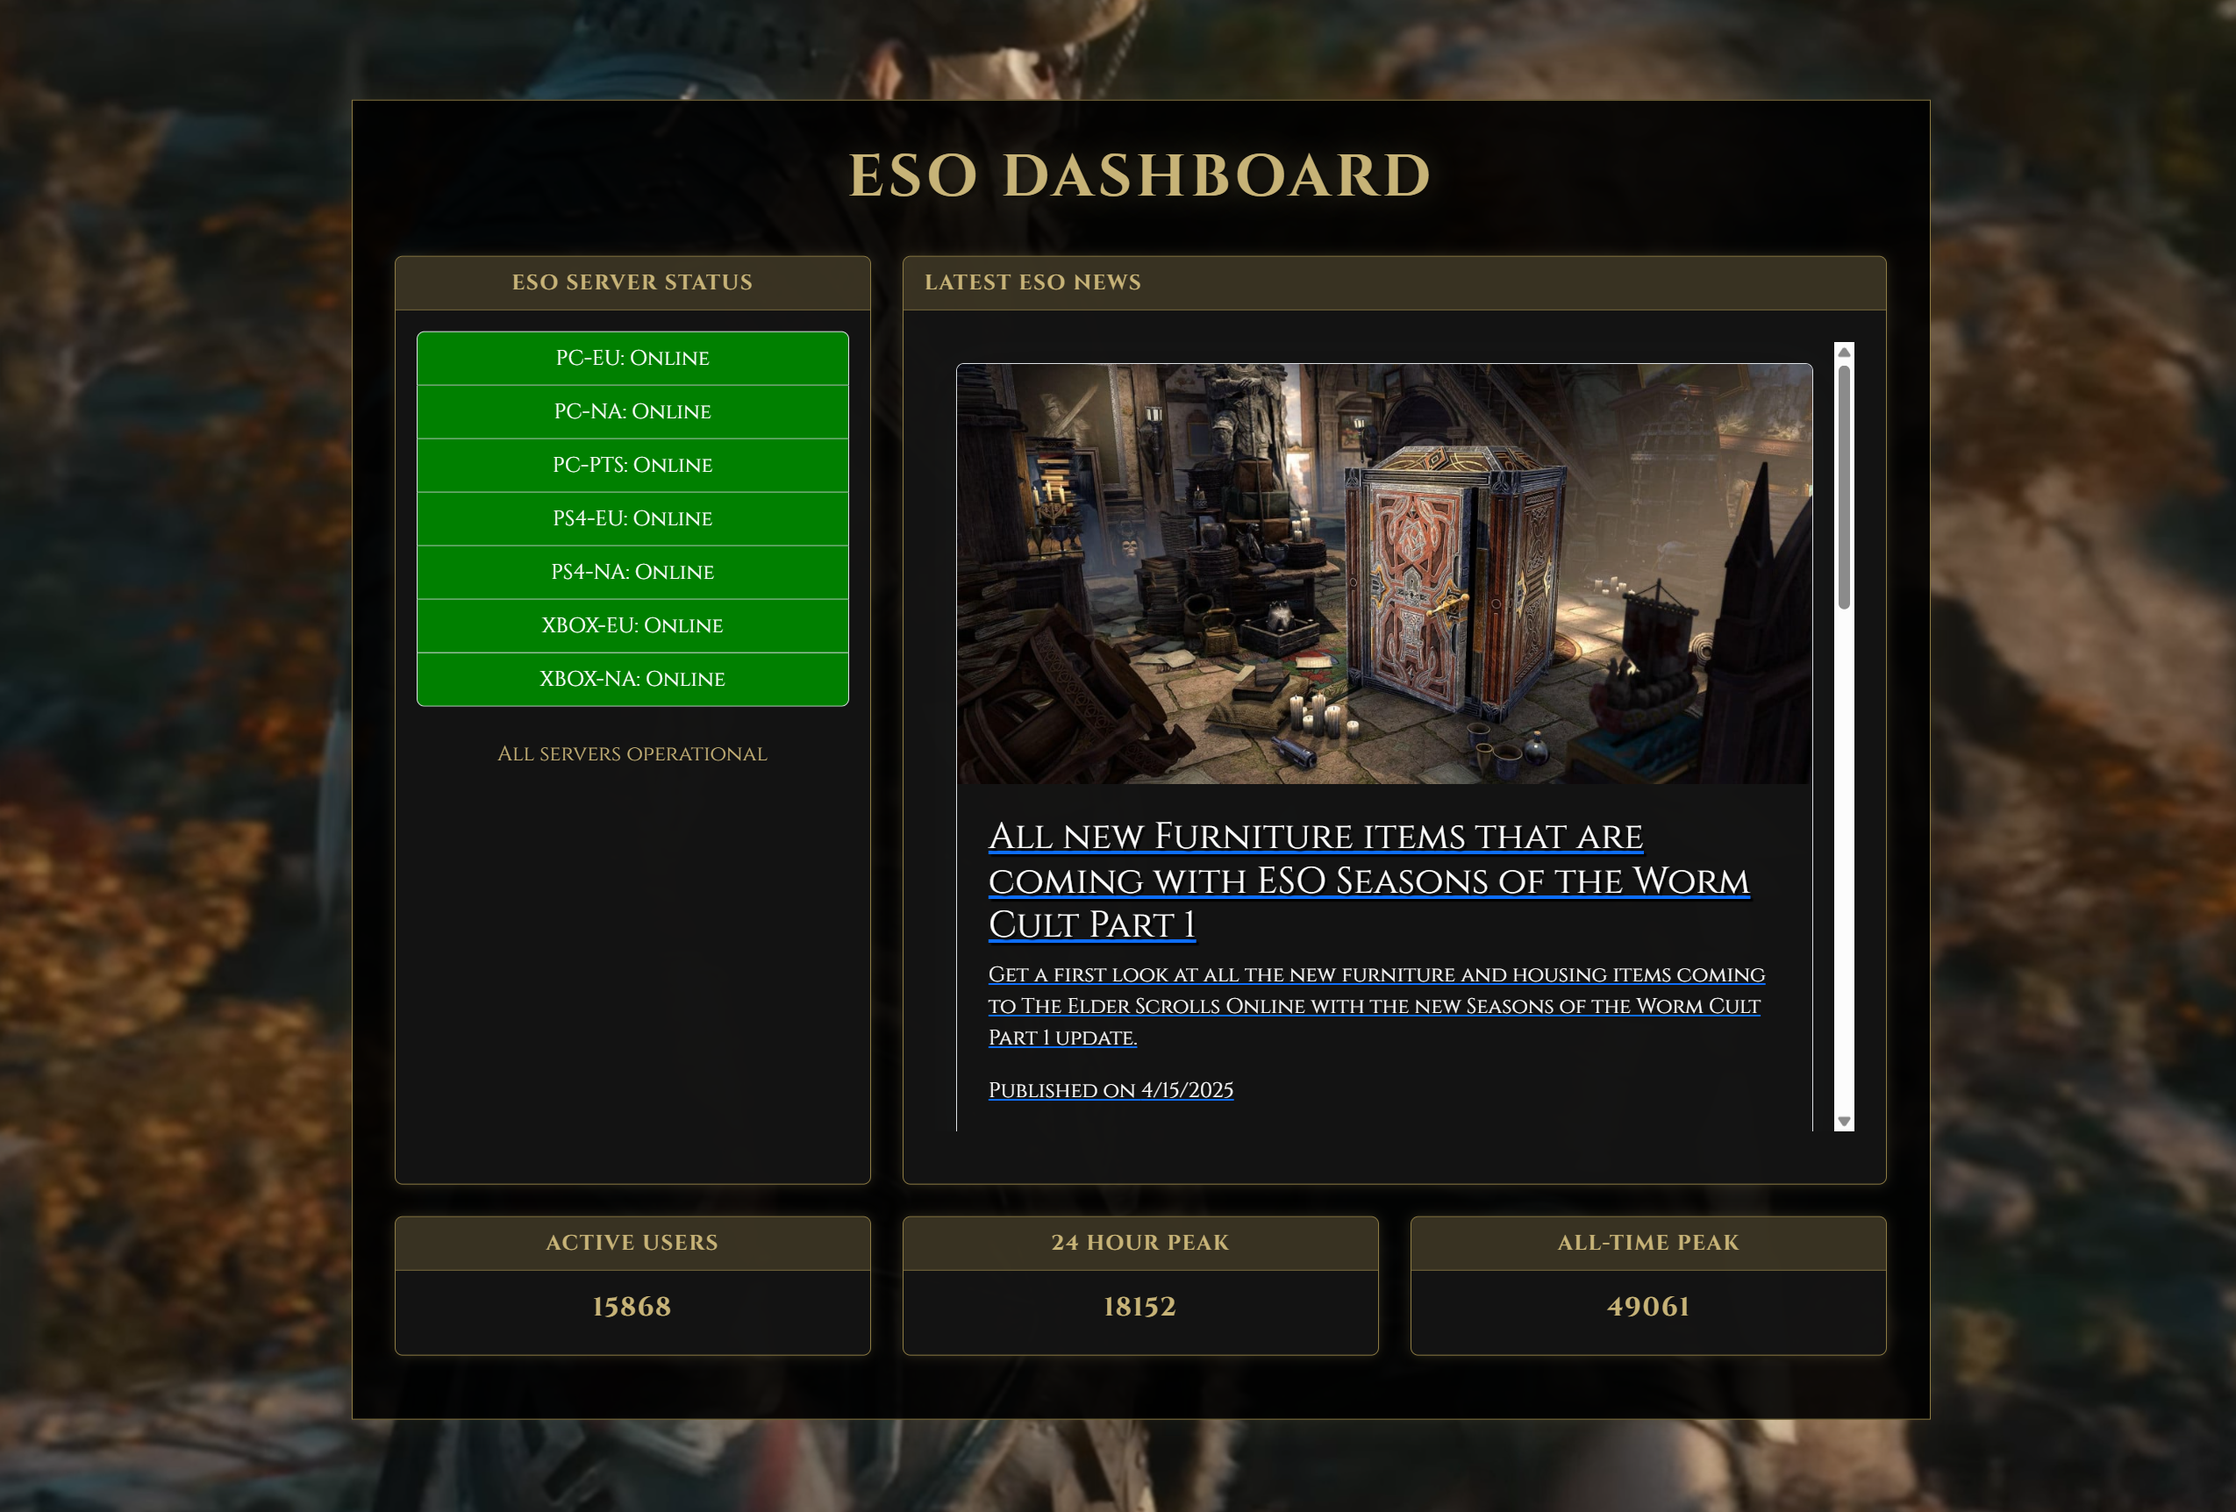
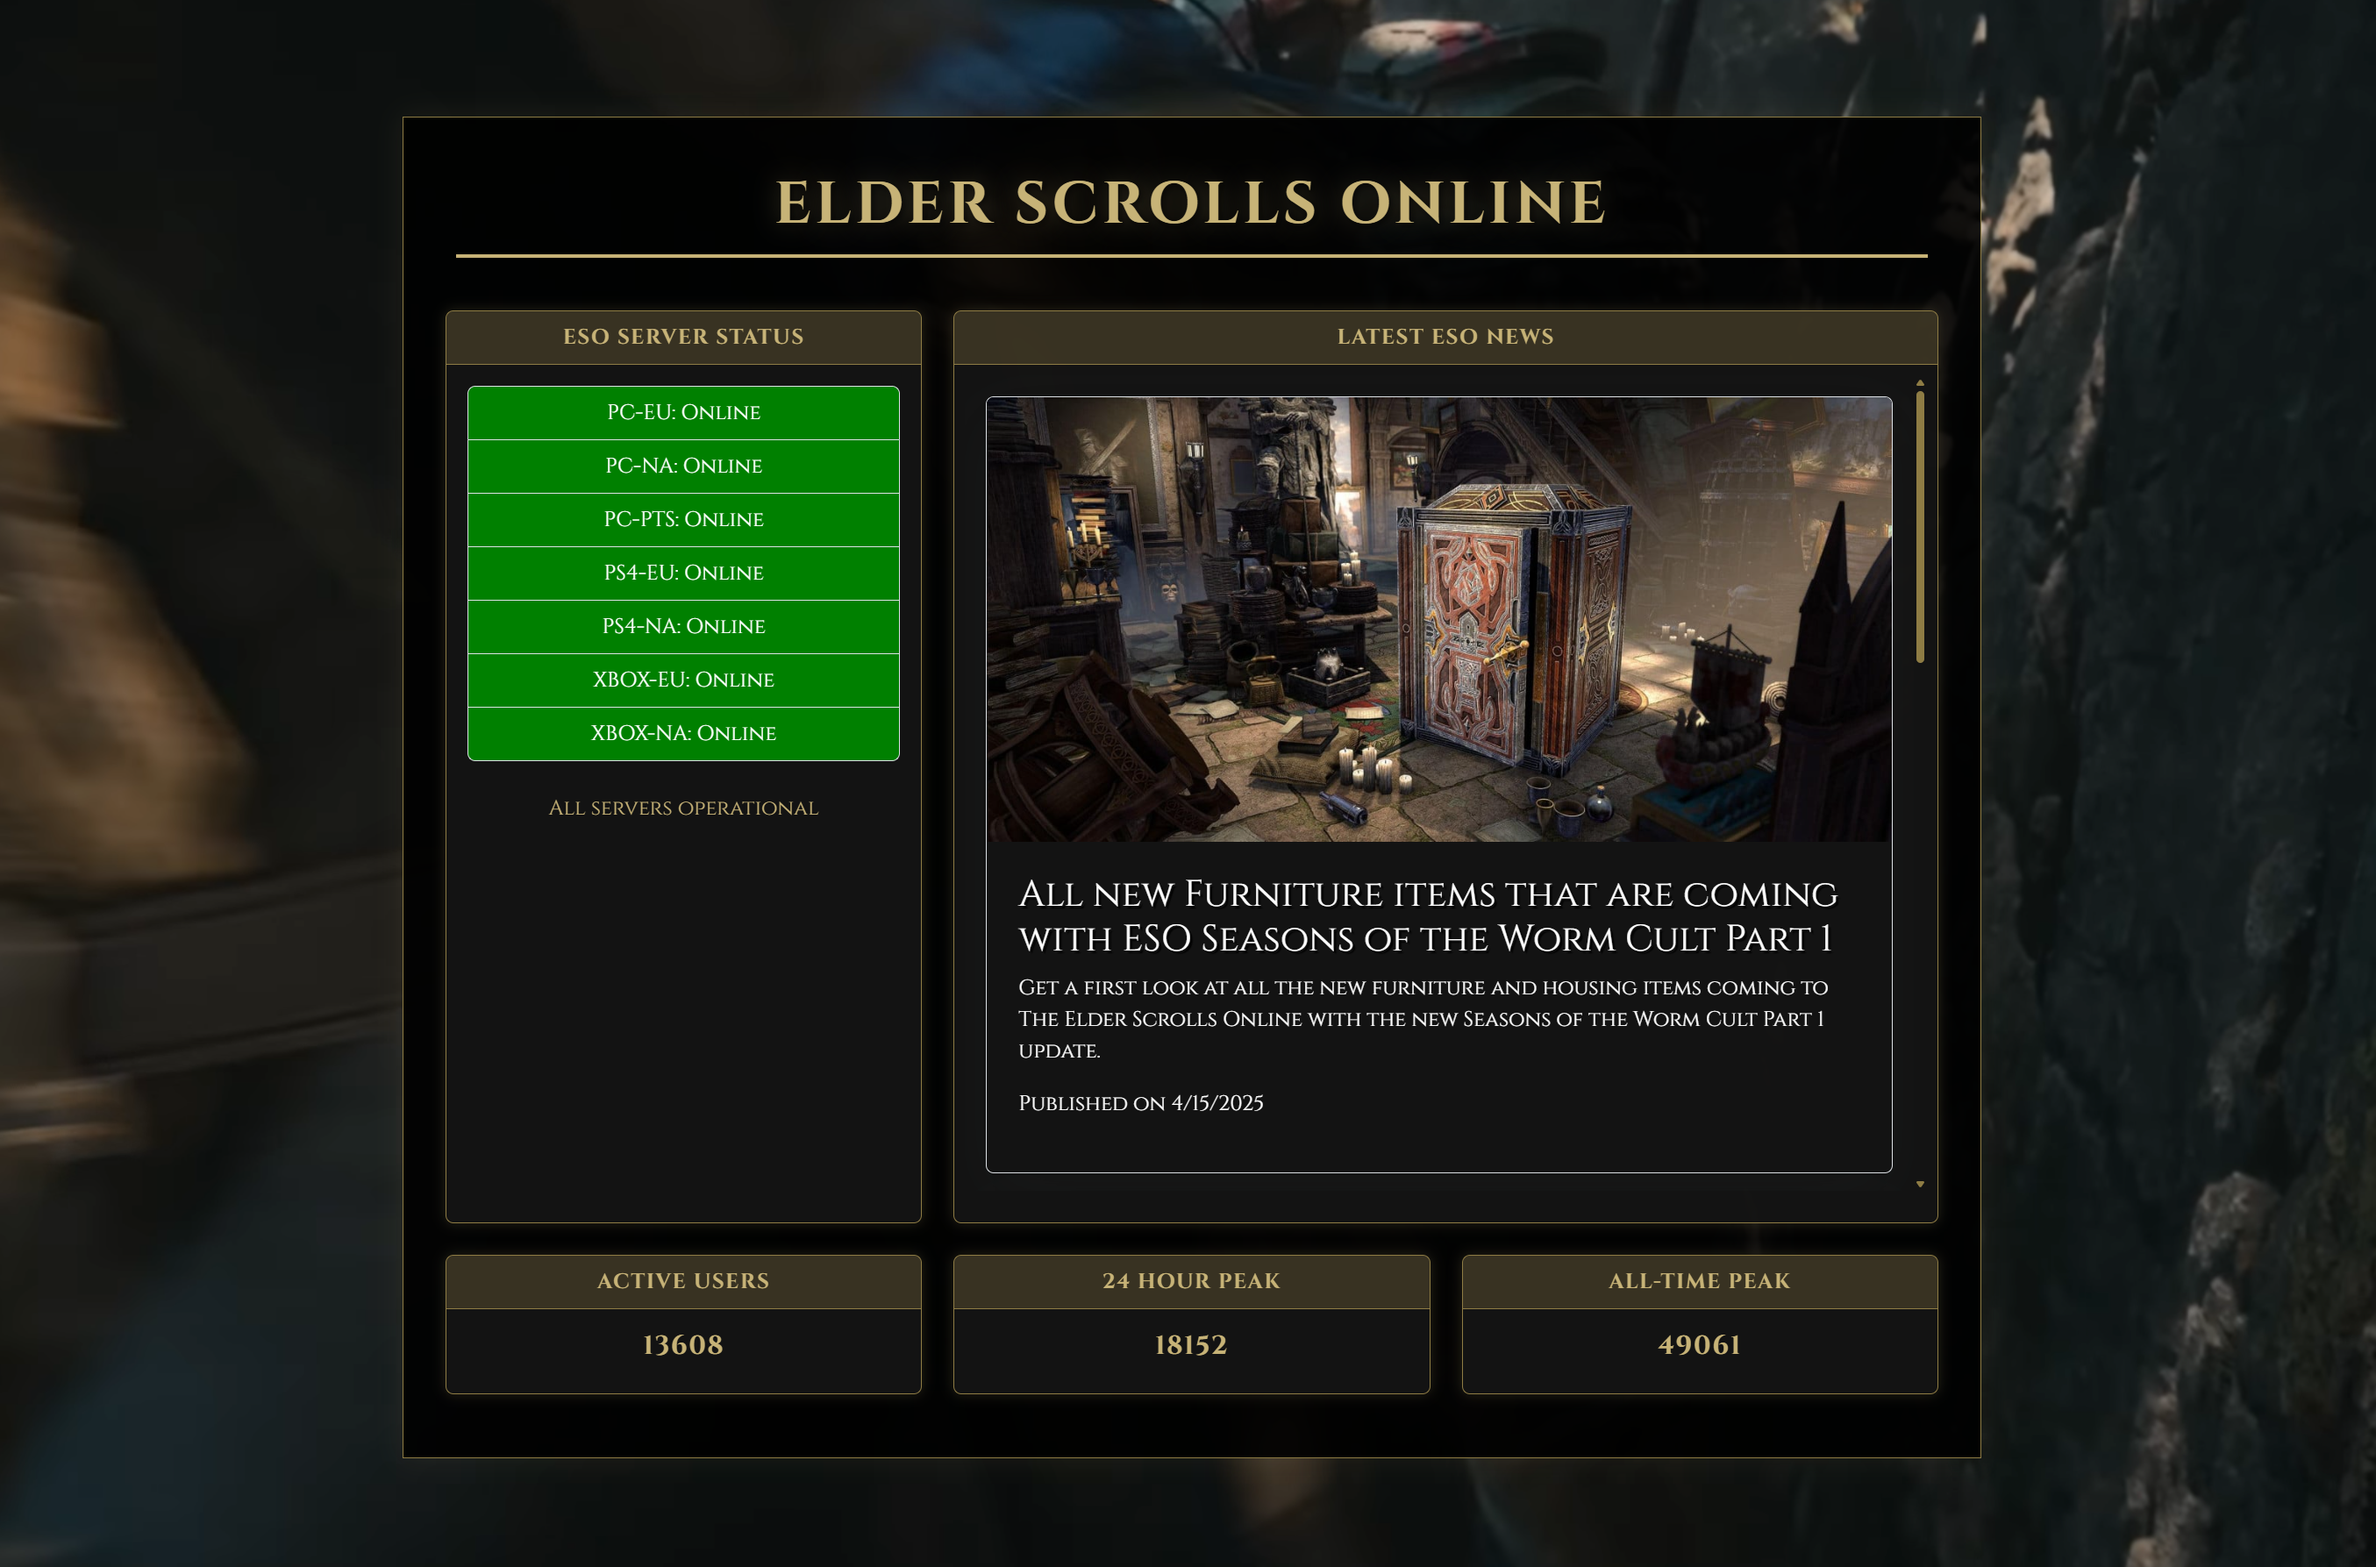
feat: Add new titel and rss feed styles

diff --git a/templates/dashboard.html b/templates/dashboard.html
@@ -4,7 +4,7 @@
 <head>
     <meta charset="UTF-8">
     <meta name="viewport" content="width=device-width, initial-scale=1.0">
-    <title>System Dashboard</title>
+    <title>ESO Dashboard</title>
     <link href="https://cdn.jsdelivr.net/npm/bootstrap@5.3.0-alpha1/dist/css/bootstrap.min.css" rel="stylesheet">
     <script src="https://cdn.jsdelivr.net/npm/chart.js"></script>
     <style>
@@ -12,29 +12,29 @@
         @import url('https://fonts.googleapis.com/css2?family=Cinzel:wght@400;700&display=swap');
 
         body {
-            background-color: #000;
-            color: #c7b377;
-            font-family: 'Cinzel', serif;
-            /* Changed to Cinzel as it's closer to ESO's style */
-            background-image: url('https://images.ctfassets.net/rporu91m20dc/4gNjttrkh46UWUQCkkOAsm/eeff79c08bca3d6633dd73f37b03f413/ESO_Necrom_Key_Art_Carousel_Desktop.jpg');
-            background-size: cover;
-            background-attachment: fixed;
-            background-position: center;
-        }
+        display: flex;
+        justify-content: center;
+        align-items: center;
+        min-height: 100vh;
+        margin: 0;
+        background-color: #000;
+        color: #c7b377;
+        font-family: 'Cinzel', serif;
+        background-image: url('https://images.ctfassets.net/rporu91m20dc/4gNjttrkh46UWUQCkkOAsm/eeff79c08bca3d6633dd73f37b03f413/ESO_Necrom_Key_Art_Carousel_Desktop.jpg');
+        background-size: cover;
+        background-attachment: fixed;
+        background-position: center;
+    }
 
-        .container {
-            position: fixed;
-            top: 50%;
-            left: 50%;
-            transform: translate(-50%, -50%);
-            width: 90%;
-            max-width: 1200px;
-            margin: 0;
-            padding: 2rem;
-            background-color: rgba(0, 0, 0, 0.9);
-            border: 1px solid #8e7c44;
-            box-shadow: 0 0 20px rgba(199, 179, 119, 0.1);
-        }
+    .container {
+        margin: 2rem; /* Remove auto margin */
+        width: 90%;
+        max-width: 1200px;
+        padding: 2rem;
+        background-color: rgba(0, 0, 0, 0.9);
+        border: 1px solid #8e7c44;
+        box-shadow: 0 0 20px rgba(199, 179, 119, 0.1);
+    }
 
         /* Mobile responsiveness */
         @media (max-width: 768px) {
@@ -110,16 +110,27 @@
         }
 
         h1 {
-            color: #c7b377;
-            text-transform: uppercase;
-            letter-spacing: 3px;
-            font-size: 2.8rem;
-            text-align: center;
-            margin-bottom: 2rem;
-            text-shadow: 2px 2px 4px rgba(0, 0, 0, 0.5),
-                0 0 20px rgba(199, 179, 119, 0.3);
-            font-family: 'Cinzel', serif;
-            font-weight: 700;
+        color: #c7b377;
+        text-transform: uppercase;
+        letter-spacing: 3px;
+        font-size: 2.8rem;
+        text-align: center;
+        margin-bottom: 2rem;
+        text-shadow: 2px 2px 4px rgba(0, 0, 0, 0.5),
+            0 0 20px rgba(199, 179, 119, 0.3);
+        font-family: 'Cinzel', serif;
+        font-weight: 700;
+        position: relative; /* Add this for positioning the underline */
+        }
+
+        h1::after {
+            content: '';
+            display: block;
+            width: 100%; 
+            height: 3px;
+            background-color: #c7b377; /* Match the text color */
+            margin: 0 auto;
+            margin-top: 10px; /* Adjust spacing below the text */
         }
 
         .card-title {
@@ -140,6 +151,21 @@
             transition: all 0.3s ease;
             box-shadow: 0 0 15px rgba(199, 179, 119, 0.3);
         }
+
+        /* Custom scrollbar styling */
+        .card-body::-webkit-scrollbar {
+            width: 8px;
+        }
+
+        .card-body::-webkit-scrollbar-track {
+            background: rgba(20, 20, 20, 0.95);
+        }
+
+        .card-body::-webkit-scrollbar-thumb {
+            background-color: #8e7c44;
+            border-radius: 4px;
+            border: 1px solid rgba(20, 20, 20, 0.95);
+        }
     </style>
 </head>
 
@@ -148,15 +174,15 @@
         <source src={{ url_for('static', filename="background-video.mp4" ) }} type="video/mp4">
     </video>
     <div class="container mt-6">
-        <h1 class="text-center">ESO Dashboard</h1>
+        <h1 class="text-center p-2">Elder Scrolls Online</h1>
         <div class="row mt-4 d-flex align-items-stretch">
             <!-- System Status Card -->
             <div class="col-md-4">
-                <div class="card text-center d-flex flex-column h-100">
-                    <div class="card-header bg-primary text-white">
+                <div class="card d-flex flex-column h-100">
+                    <div class="card-header text-center bg-primary text-white">
                         ESO Server Status
                     </div>
-                    <div class="card-body flex-grow-1">
+                    <div class="card-body flex-grow-1 text-center">
                         <ul class="list-group" id="serverStatusList">
                             <li class="list-group-item text-white bg-dark">Loading...</li>
                         </ul>
@@ -168,16 +194,17 @@
             <!-- RSS Feed Card -->
             <div class="col-md-8">
                 <div class="card d-flex flex-column h-100">
-                    <div class="card-header bg-success text-white">
+                    <div class="card-header text-center bg-success text-white">
                         Latest ESO News
                     </div>
-                    <div class="card-body flex-grow-1 m-4" style="max-height: 600px; overflow-y: auto;">
+                    <div class="card-body flex-grow-1 m-2" style="max-height: 620px; overflow-y: auto; scrollbar-width: thin; scrollbar-color: #8e7c44 rgba(20, 20, 20, 0.95);">
                         <div id="rssFeed" class="d-flex flex-column gap-3">
                             <div class="text-white bg-dark">Loading...</div>
                         </div>
                     </div>
                 </div>
             </div>
+
         </div>
         <!-- Additional Stats -->
         <div class="row mt-4">
@@ -284,38 +311,39 @@
 
         function fetchRSSFeed() {
             fetch('https://api.rss2json.com/v1/api.json?rss_url=https://eso-hub.com/en/news/feed.rss')
-                .then(response => response.json())
-                .then(data => {
-                    const rssFeed = document.getElementById('rssFeed');
-                    rssFeed.innerHTML = ''; // Clear the list
-                    data.items.slice(0, 3).forEach(item => {
-                        const feedItem = document.createElement('a');
-                        feedItem.href = item.link;
-                        feedItem.target = '_blank';
-                        feedItem.className = 'relative block bg-gray-900 border border-gray-900 shadow-lg rounded overflow-hidden';
-                        feedItem.style.maxWidth = '100%';
-                        feedItem.innerHTML = `
-                                    <img src="${item.thumbnail}" alt="${item.title}" class="w-full" width="100%">
-                                    <div class="absolute bottom-0 left-0 right-0 p-4 bg-gradient-to-t from-black via-black/60 to-transparent">
-                                        <h3 class="text-white text-2xl font-semibold shadow-black line-clamp-2" style="text-shadow: black 2px 2px 1px;">
-                                            ${item.title}
-                                        </h3>
-                                        <p class="text-white mt-2 line-clamp-2 text-sm">
-                                            ${item.description}
-                                        </p>
-                                        <p class="text-white text-sm mt-2 line-clamp-1">
-                                            Published on <span class="font-semibold text-white">${new Date(item.pubDate).toLocaleDateString()}</span>
-                                        </p>
-                                    </div>
-                                `;
-                        rssFeed.appendChild(feedItem);
-                    });
-                })
-                .catch(error => {
-                    console.error('Error fetching RSS feed:', error);
-                    const rssFeed = document.getElementById('rssFeed');
-                    rssFeed.innerHTML = '<div class="text-white bg-danger p-3 rounded">Error loading RSS feed</div>';
+            .then(response => response.json())
+            .then(data => {
+                const rssFeed = document.getElementById('rssFeed');
+                rssFeed.innerHTML = ''; // Clear the list
+                data.items.slice(0, 3).forEach(item => {
+                const feedItem = document.createElement('a');
+                feedItem.href = item.link;
+                feedItem.target = '_blank';
+                feedItem.className = 'relative block bg-gray-900 border border-gray-900 shadow-lg rounded overflow-hidden';
+                feedItem.style.maxWidth = '100%';
+                feedItem.style.textDecoration = 'none'; // Remove underline
+                feedItem.innerHTML = `
+                        <img src="${item.thumbnail}" alt="${item.title}" width="100%">
+                        <div class="absolute bottom-0 left-0 right-0 p-4 bg-gradient-to-t from-black via-black/60 to-transparent">
+                        <h3 class="text-white text-2xl font-semibold shadow-black line-clamp-2" style="text-shadow: black 2px 2px 1px;">
+                            ${item.title}
+                        </h3>
+                        <p class="text-white mt-2 line-clamp-2 text-sm">
+                            ${item.description}
+                        </p>
+                        <p class="text-white text-sm mt-2 line-clamp-1">
+                            Published on <span class="font-semibold text-white">${new Date(item.pubDate).toLocaleDateString()}</span>
+                        </p>
+                        </div>
+                    `;
+                rssFeed.appendChild(feedItem);
                 });
+            })
+            .catch(error => {
+                console.error('Error fetching RSS feed:', error);
+                const rssFeed = document.getElementById('rssFeed');
+                rssFeed.innerHTML = '<div class="text-white bg-danger p-3 rounded">Error loading RSS feed</div>';
+            });
         }
 
         // Fetch RSS feed on page load
